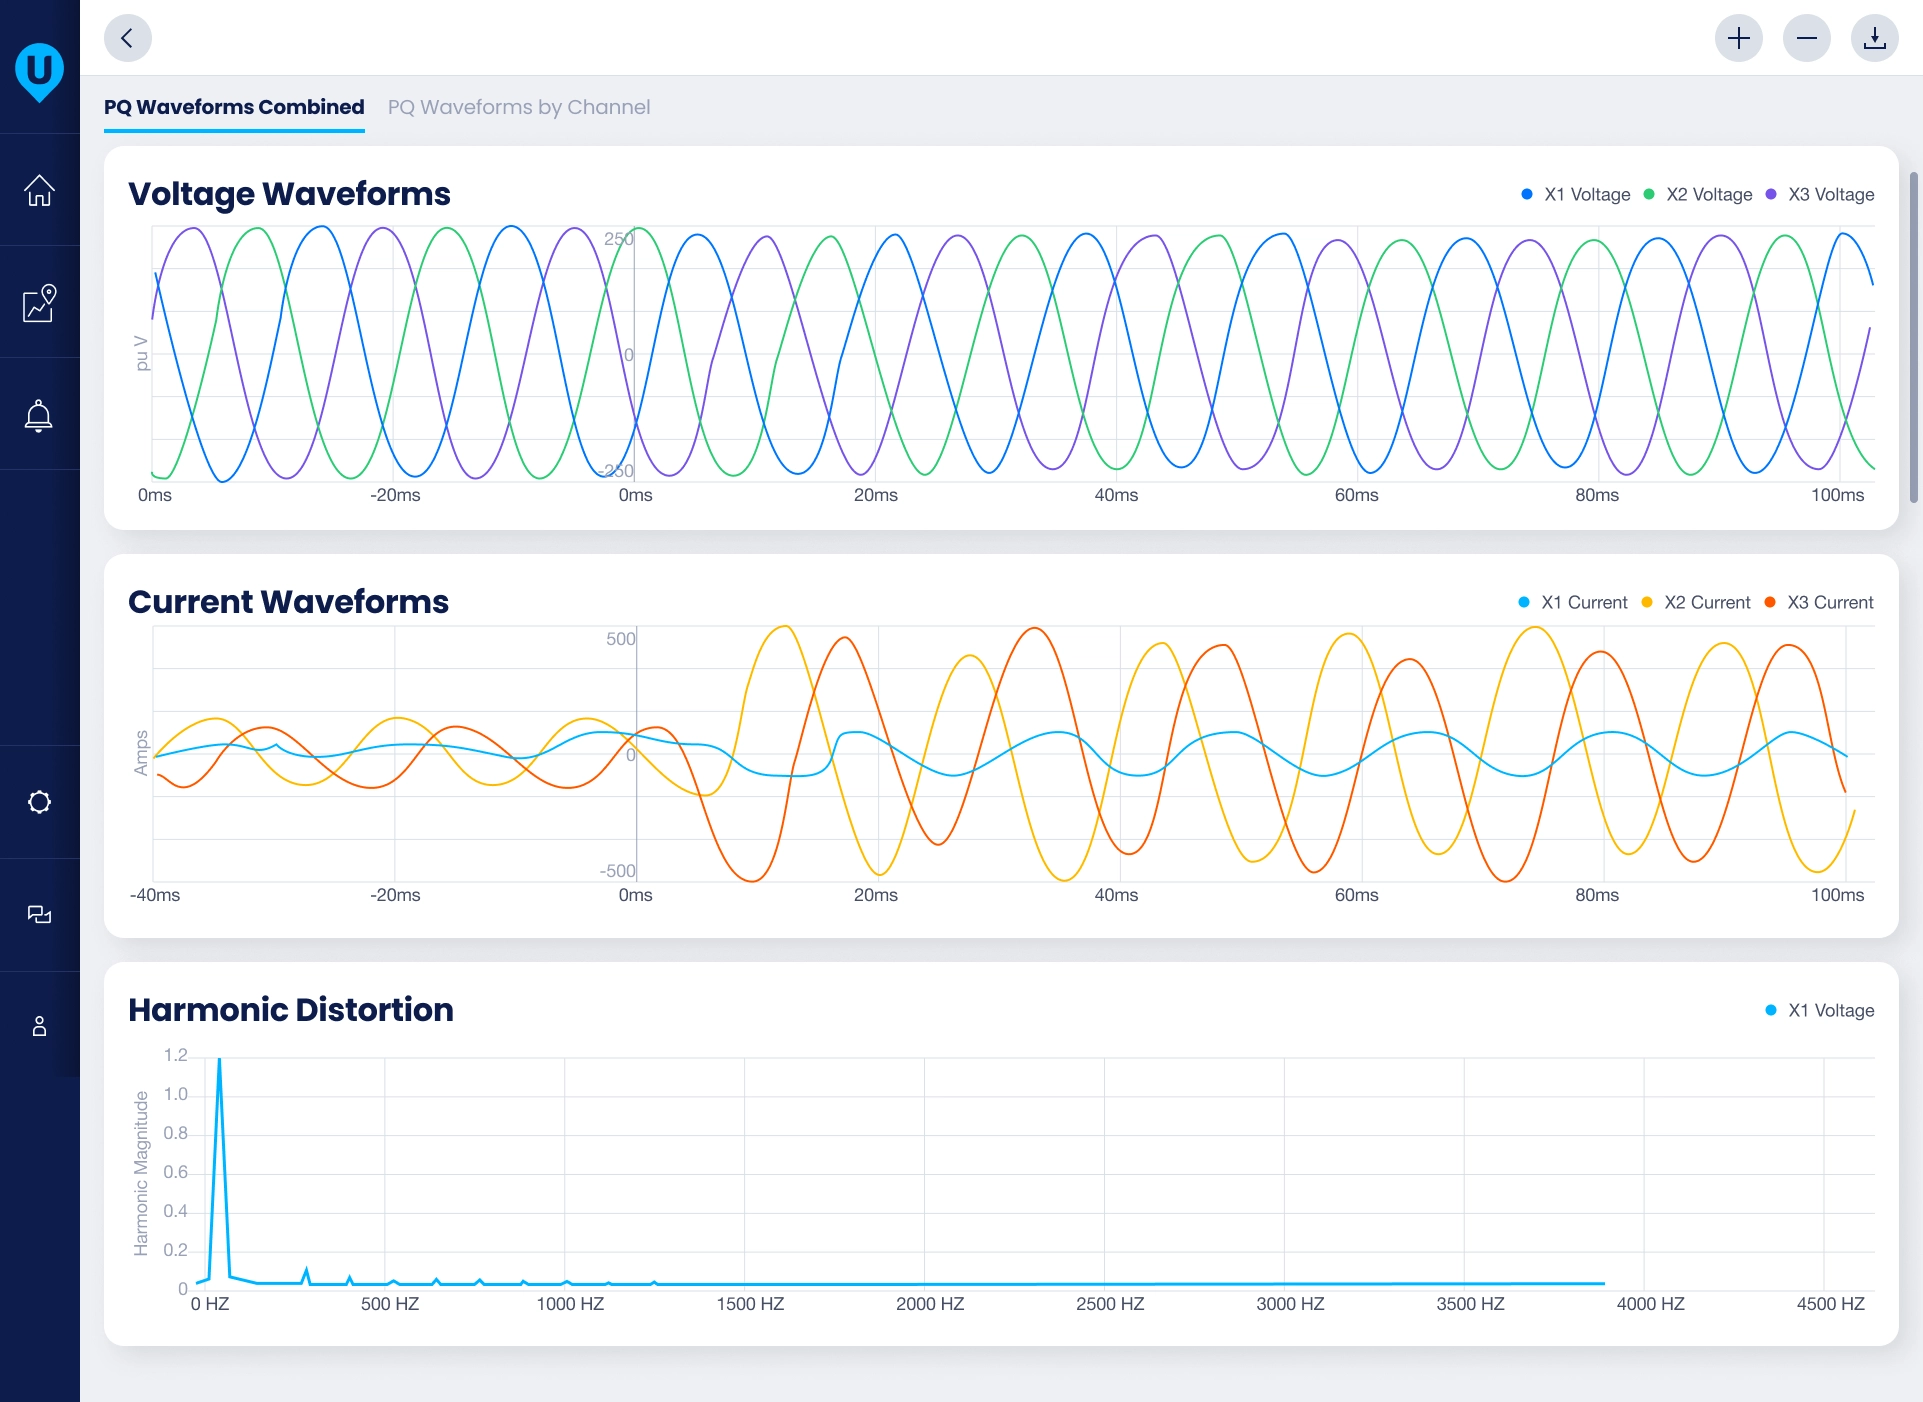
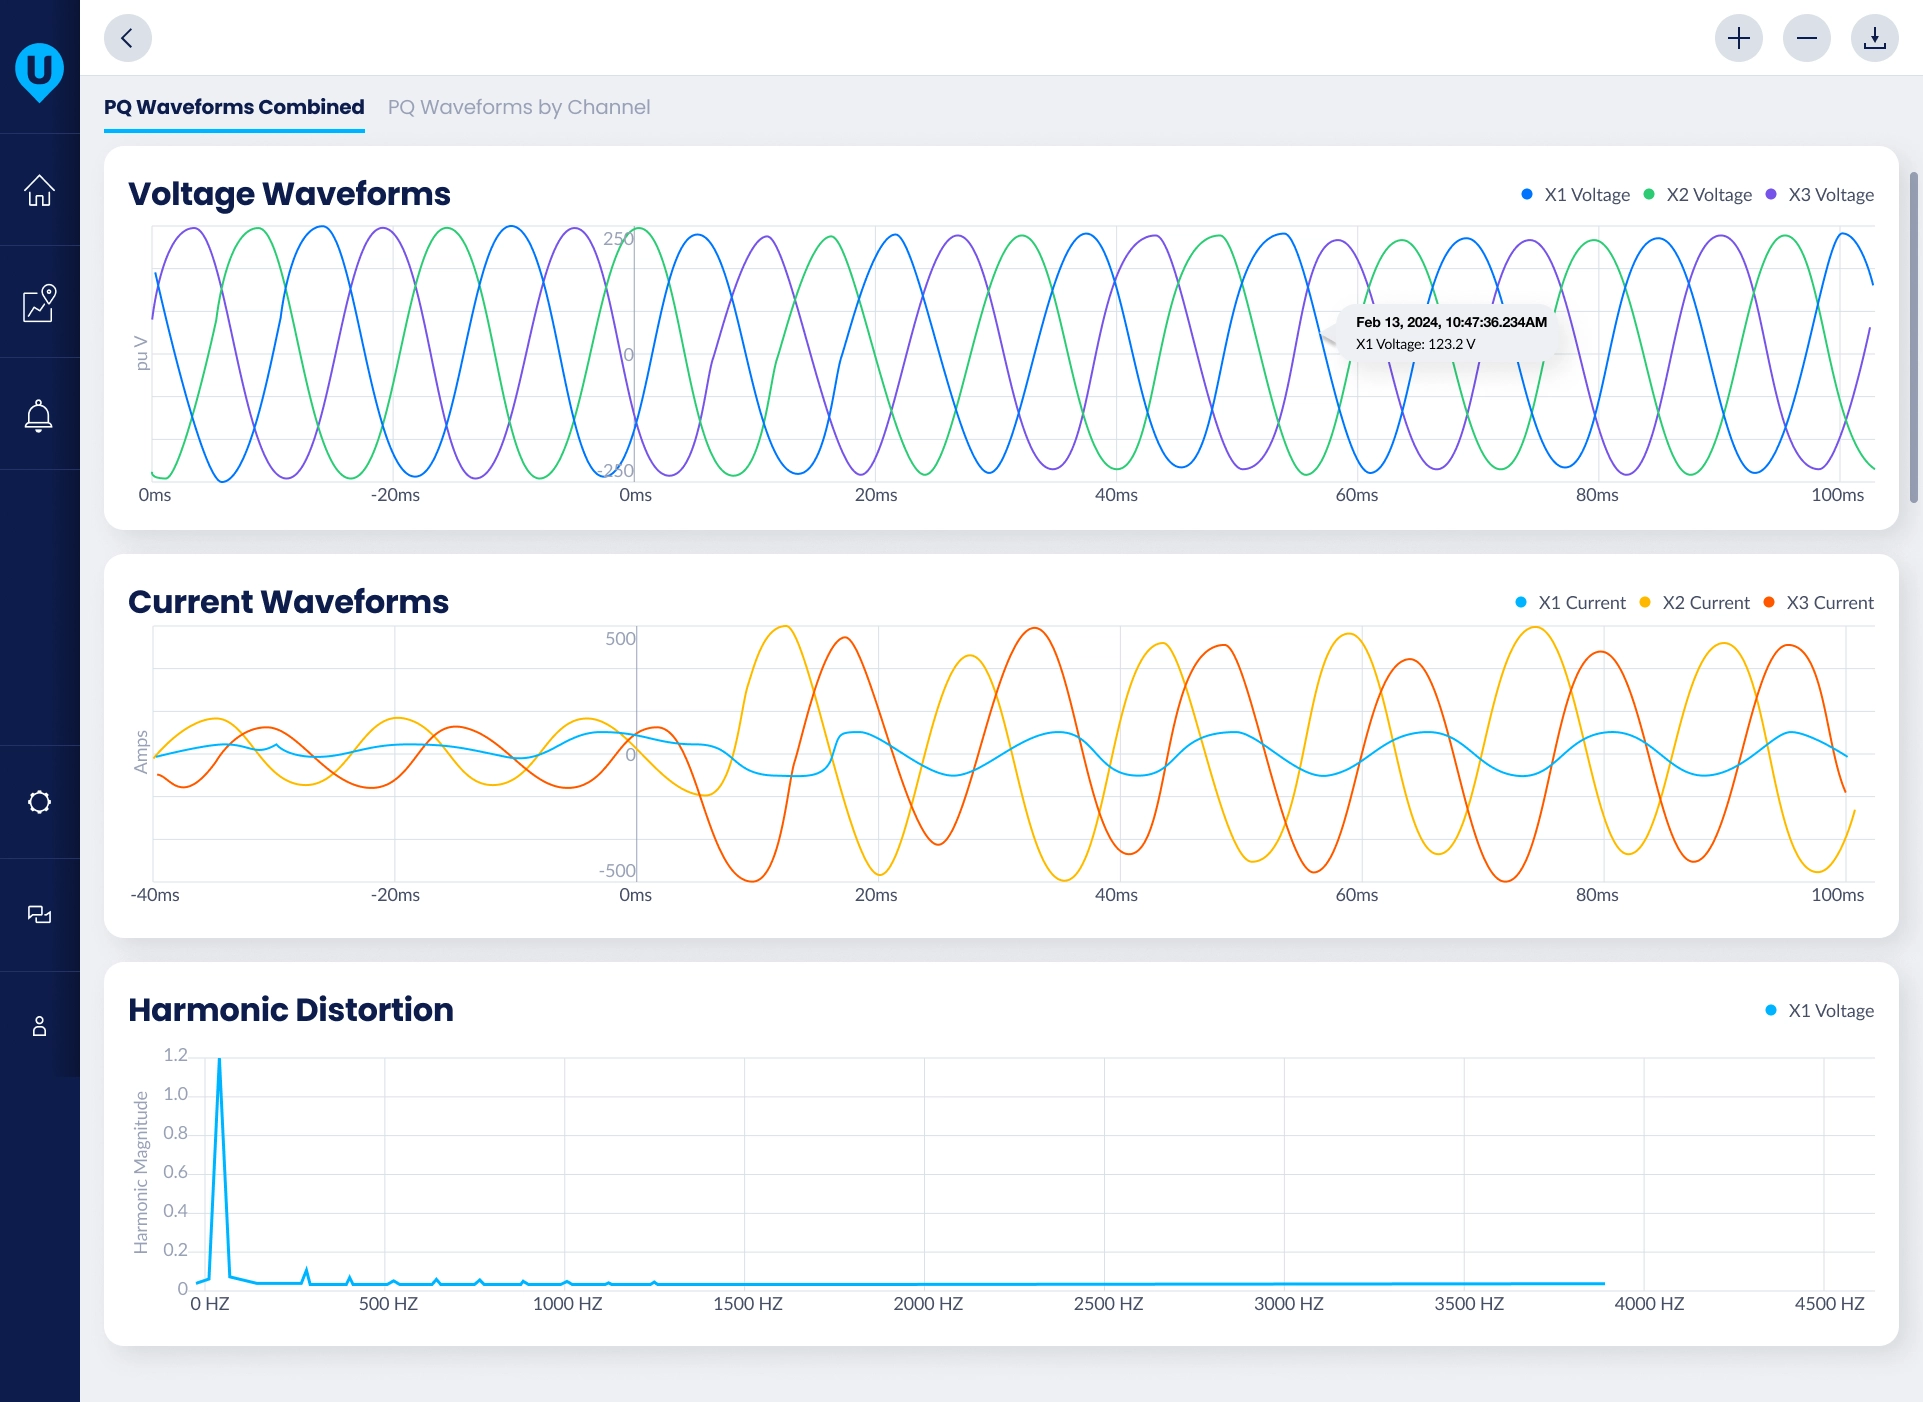
update image

diff --git a/eventInvestigation.html b/eventInvestigation.html
@@ -164,9 +164,9 @@
 <!-- Detail -->
            <div data-aos="fade-up" data-aos-once="true">
             <section>
-            <p class="bold-text">Enhanced Event Investigation</p>
+            <p class="bold-text">Waveform Analysis</p>
             <div class="">
-             <img src="https://matomaton.github.io/assets/AlertInvestigation.webp">
+             <img src="https://matomaton.github.io/assets/WaveForms.webp">
                  </div>
                 <ul>
                  <li>Hierarchical event exploration from high-level categories to specific instances</li>
